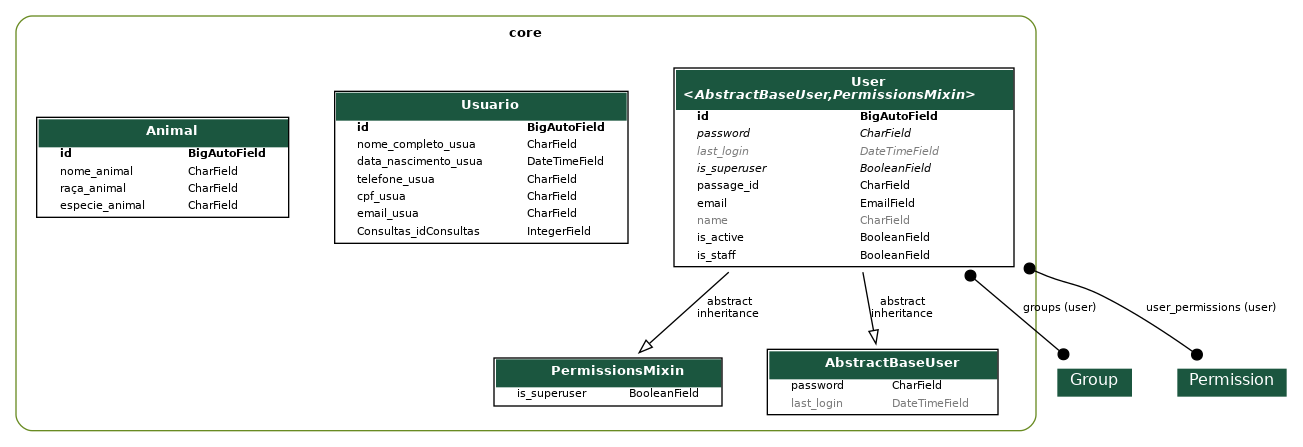
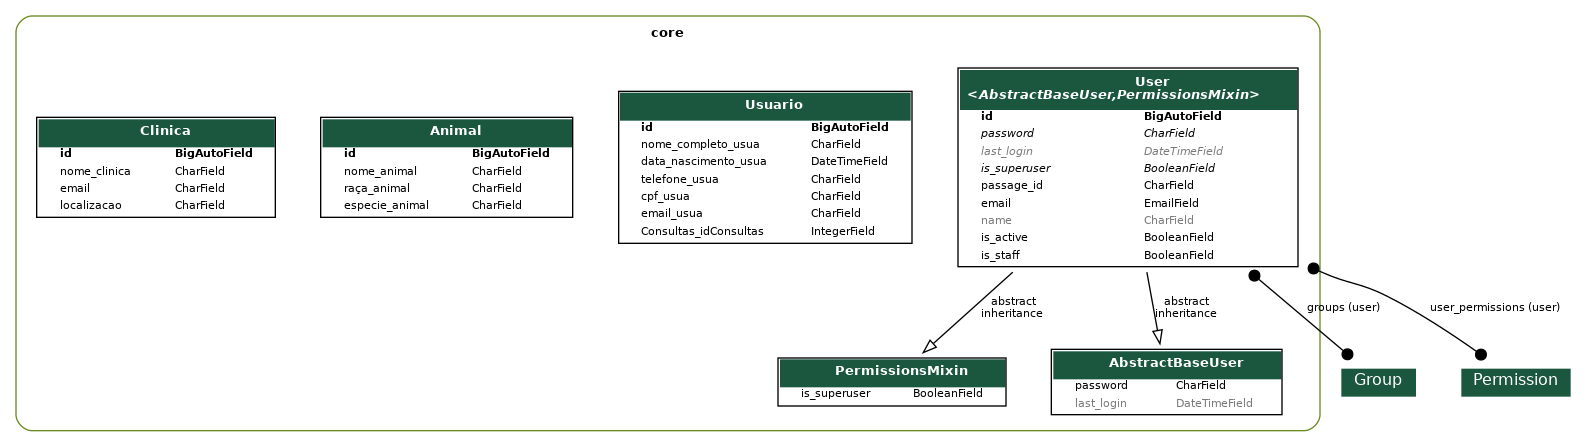
Feat: Criando API Medico

diff --git a/core/migrations/0007_clinica.py b/core/migrations/0007_clinica.py
@@ -1,0 +1,22 @@
+# Generated by Django 5.1.7 on 2025-06-30 16:53
+
+from django.db import migrations, models
+
+
+class Migration(migrations.Migration):
+
+    dependencies = [
+        ('core', '0006_animal'),
+    ]
+
+    operations = [
+        migrations.CreateModel(
+            name='Clinica',
+            fields=[
+                ('id', models.BigAutoField(auto_created=True, primary_key=True, serialize=False, verbose_name='ID')),
+                ('nome_clinica', models.CharField(max_length=45)),
+                ('email', models.CharField(max_length=45)),
+                ('localizacao', models.CharField(max_length=50)),
+            ],
+        ),
+    ]

diff --git a/core/models/clinica.py b/core/models/clinica.py
@@ -1,6 +1,7 @@
 from django.db import models
 
-class Clinica (models.Model):
+
+class Clinica(models.Model):
     nome_clinica = models.CharField(max_length=45)
     email = models.CharField(max_length=45)
     localizacao = models.CharField(max_length=50)

diff --git a/app/urls.py b/app/urls.py
@@ -7,7 +7,7 @@ from drf_spectacular.views import (
 )
 from rest_framework.routers import DefaultRouter
 
-from core.views import AnimalViewSet, UserViewSet
+from core.views import AnimalViewSet, ClinicaViewset, UserViewSet
 
 router = DefaultRouter()
 

diff --git a/core/views/clinica.py b/core/views/clinica.py
@@ -1,4 +1,4 @@
-from rest_framework import ModelViewSet
+from rest_framework.viewsets import ModelViewSet
 from core.models import Clinica
 from core.serializers import ClinicaSerializer
 

diff --git a/core/models/medico.py b/core/models/medico.py
@@ -1,0 +1,7 @@
+from django.db import models
+
+
+class Medico(models.Model):
+    nome_completo = models.CharField(max_length=45)
+    data_nascimento = models.DateField
+    

diff --git a/core/serializers/clinica.py b/core/serializers/clinica.py
@@ -1,4 +1,4 @@
-from rest_framework import ModelSerializer
+from rest_framework.serializers import ModelSerializer
 from core.models import Clinica
 
 
